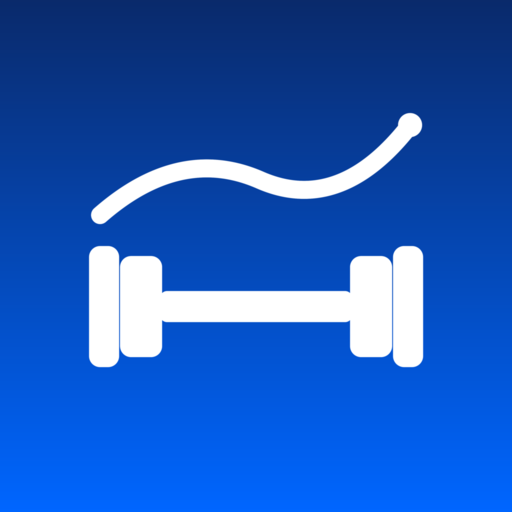
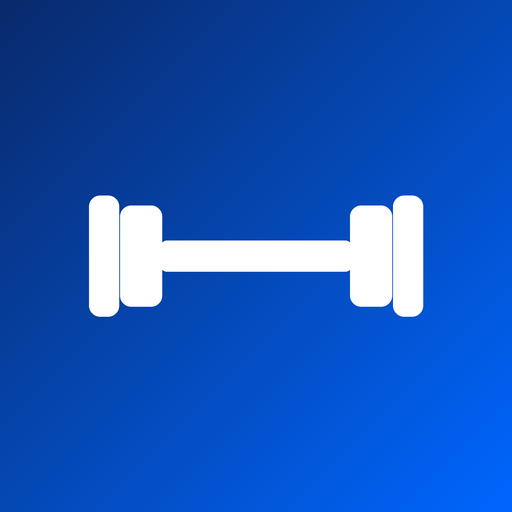
Add files via upload

diff --git a/sw.js b/sw.js
@@ -1,5 +1,5 @@
 // FitTrack Service Worker — Offline-Support
-const CACHE = 'fittrack-v83';
+const CACHE = 'fittrack-v84';
 const ASSETS = [
   './',
   './index.html',